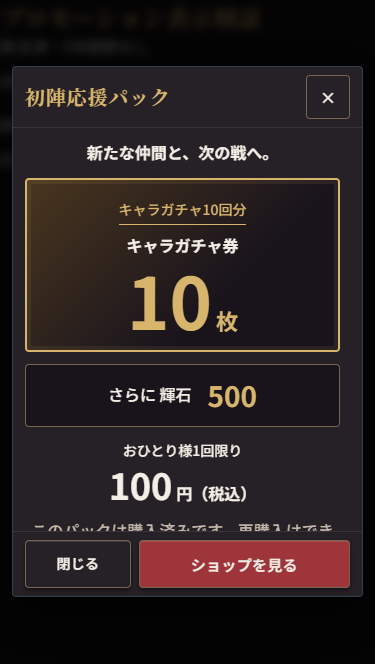
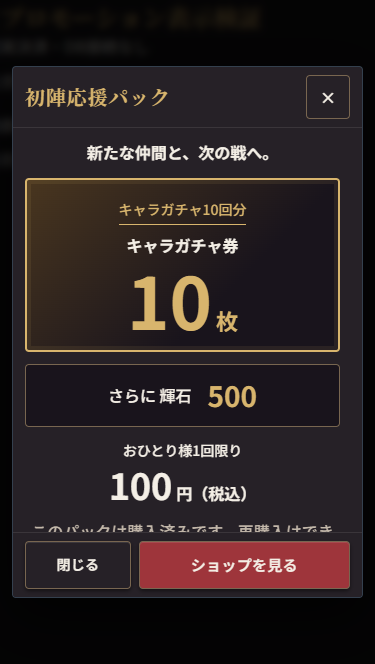
fix(game04): preserve free summon CTA for pack purchasers

diff --git a/src/app/qa/starter-promotion/Harness.tsx b/src/app/qa/starter-promotion/Harness.tsx
@@ -10,7 +10,7 @@ import '@/app/components/redesign/redesign.css';
 export default function Harness() {
  const [ready,setReady]=useState(false),[blocked,setBlocked]=useState(true),[active,setActive]=useState(true);
  const [destination,setDestination]=useState(''),[recorded,setRecorded]=useState(0);
- const fixture=useRef({time:Date.parse('2026-09-28T14:59:50Z'),shownDay:'',visit:'',purchased:false,failOnce:false});
+ const fixture=useRef({time:Date.parse('2026-09-28T14:59:50Z'),shownDay:'',visit:'',purchased:false,failOnce:false,kind:'starter'});
  useEffect(()=>{
   const originalRpc=supabase.rpc,originalNow=Date.now;
   Date.now=()=>fixture.current.time;
@@ -25,7 +25,7 @@ export default function Harness() {
    if(args?.p_action==='release'){f.visit='';return {data:{},error:null};}
    if(f.shownDay===day)return {data:{},error:null};
    f.visit=args?.p_visit_id??'';
-   return {data:{kind:'starter',day,purchased:f.purchased},error:null};
+   return {data:{kind:f.kind,day,purchased:f.purchased},error:null};
   }) as unknown as typeof supabase.rpc;
   setReady(true);
   return()=>{supabase.rpc=originalRpc;Date.now=originalNow;};
@@ -38,6 +38,7 @@ export default function Harness() {
    <button onClick={()=>{fixture.current.time+=86400000;}}>翌日へ</button>
    <button onClick={()=>{fixture.current.purchased=true;}}>購入済みにする</button>
    <button onClick={()=>{fixture.current.failOnce=true;}}>表示記録を1回失敗</button>
+   <button onClick={()=>{fixture.current.kind='daily-free';fixture.current.time+=86400000;}}>翌日の無料召喚</button>
    <p role="status">表示記録 {recorded}回 / {destination}</p>
   </main>
   <HomePromotion owner="synthetic-starter" active={active} blocked={blocked} onNavigate={setDestination}/>

diff --git a/src/app/components/redesign/HomePromotion.tsx b/src/app/components/redesign/HomePromotion.tsx
@@ -11,7 +11,7 @@ import './home-promotion.css';
 export function HomePromotionDialog({ kind, purchased = false, onClose, onNavigate }: { kind: HomePromotionKind; purchased?: boolean; onClose: () => void; onNavigate: (destination: string) => void }) {
   const offer = HOME_PROMOTIONS[kind];
   return <CanonicalDialog title={offer.title} onClose={onClose} density="compact" className="g4-home-promotion"
-    actions={[{ label: '閉じる', onClick: onClose }, { label: purchased ? 'ショップを見る' : offer.action, semantic: 'primary', onClick: () => { onClose(); onNavigate(offer.destination); } }]}>
+    actions={[{ label: '閉じる', onClick: onClose }, { label: kind === 'starter' && purchased ? 'ショップを見る' : offer.action, semantic: 'primary', onClick: () => { onClose(); onNavigate(offer.destination); } }]}>
     {kind === 'starter' ? <div className="g4-starter-offer">
       <p className="g4-starter-lead">{offer.message}</p>
       <div className="g4-starter-ticket">
